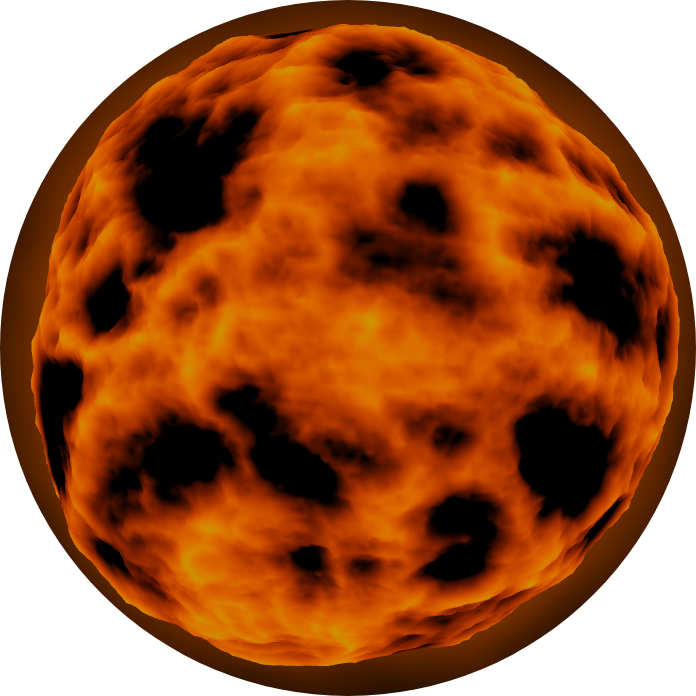
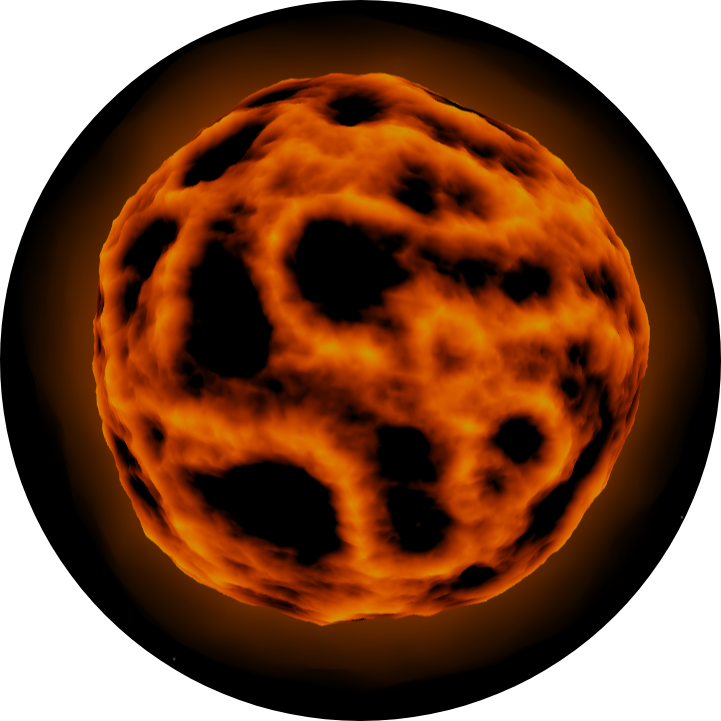
see more of scene

diff --git a/index.html b/index.html
@@ -596,7 +596,7 @@
 				renderer.autoClear = false;
 
 				// Setting up camera
-				camera = new THREE.PerspectiveCamera( fov, ratio, 1, 1000 );
+				camera = new THREE.PerspectiveCamera( fov, ratio, 1, 3000 );
 				camera.position.set( cameraPosX, cameraPosY, cameraPosZ );
 				camera.target = new THREE.Vector3( 0, 0, 0 );
 				scene.add( camera );
